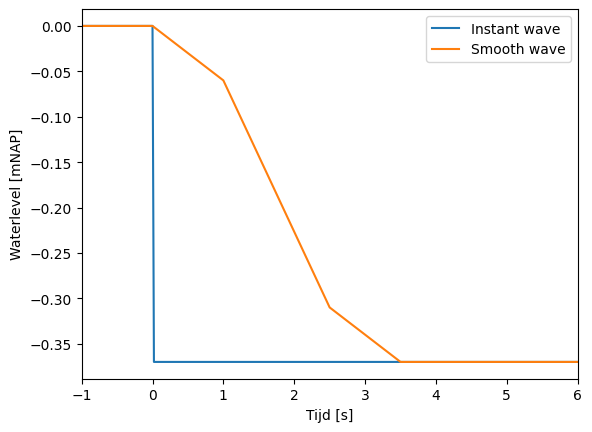
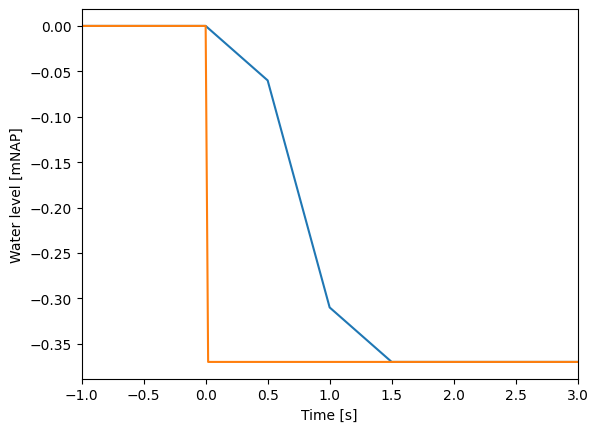
Update9_WK_Review_sensanalysis_final

diff --git a/docs/source/sensitivity-analysis.rst b/docs/source/sensitivity-analysis.rst
@@ -1,6 +1,6 @@
 Sensitivity Analysis
 ===========
-In this sensitivity analysis, parameters in the model are varied with respect to and compared with the calculation that is presented in `example <https://lockgate5-branch2.readthedocs.io/en/latest/example.html>`_ and `tutorial <https://lockgate5-branch2.readthedocs.io/en/latest/tutorial>`.
+In this sensitivity analysis, parameters in the model are varied with respect to the example calculation in `example <https://lockgate5-branch2.readthedocs.io/en/latest/example.html>`_ which includes a negative wave from the drop in water level alongside a ship that exits a lock. The input file for this simulation has been presented in `tutorial <https://lockgate5-branch2.readthedocs.io/en/latest/tutorial>`.
 
 The use of sailing velocity (M0=0)
 --------------------------------
@@ -8,7 +8,7 @@ As mentioned in `getting started <https://lockgate5-branch2.readthedocs.io/en/la
 
 .. image:: ../images/Test_1.png
 
-As can be seen in the figure, a higher propagation velocity in the lock chamber causes a larger head difference that occurs earlier than if the propagation velocity of the wave in the lock chamber equals the propagation velocity in the gate recess (translatory wave). The numerical instability occurs at roughly the same time step.
+As can be seen in the figure, for a propagation velocity of the wave in the lock chamber based on linear wave theory (equal to that in the gate recess) results in a significantly different shape. The peak negative head difference occurs earlier since the wave in the lock chamber reaches the second vertical opening at location W earlier. The peak itself is lowered since the translatory waves in the lock chamber and gate recess meet at location B. This is similar for the positive head difference peak. The numerical instability occurs at an earlier time step.
 
 Spacing between gate and gate recess wall
 --------------------------------
@@ -17,21 +17,21 @@ A space is present between the gate and gate recess wall, referred to as 'channe
 
 .. image:: ../images/Test_2.png
 
-As the figure shows, reducing the width of the channel also reduces the peak in head difference over the gate. Reason for this is, a smaller channel results in a larger wave height of the translatory wave in the gate recess. At the same time it can be seen that the influence of the numerical instability increases. This effect is reduced for a wider channel, because the waveheight of the translatory wave is less sensitive.
+As the figure shows, reducing the width of the channel increases the influence of the numerical instability and causes the instability to occur earlier in the simulation (even before the wave in the lock chamber reaches the second vertical opening at location W). This effect is reduced for a wider channel and therefore seems to be less sensitive.
 
 Width of the vertical opening 
 --------------------------------
 
-Two vertical openings are present on the sides of the gate, which can differ in spacing. In the figure below, the spacing of the vertical opening at location A (BA, the first that is reached by the incoming wave) is altered.
+Two vertical openings are present on the sides of the gate, which can differ in spacing. In the figure below, the spacing of the vertical opening at location A (BA, the first that is reached by the incoming wave) is varied.
 
 .. image:: ../images/Test_3.png
 
-From the figure it can be seen that the head difference is highly sensitive to the width of the opening at A (BA). A wider channel results in faster response of the waterlevel in the channel, reducing the head difference. For the simulation in which BA exceeds the width of the opening at B (BB=0.50 [m], green line), the maximum positive head difference is larger than for the simulation where BA=0.30 [m] (orange line). However, for a very small spacing at location A (BA), the positive and negative head difference are largerst. The numerical instability seems to occur later in the simulation when increasing BA.
+From the figure it can be seen that the head difference is highly sensitive to the width of the opening at A (BA). A wider channel results in faster response of the waterlevel in the channel creating a positive peak in head difference immediatly after the wave arrives at location A. As a result, the negative peak is reduced. For the simulation in which BA (=0.70 [m]) exceeds BB (=0.50 [m]) a positive peak forms after the negative peak, whereas this is not the case for the simulation with BA=0.30 [m]. The numerical instability does not seem to have a clear relation to BA.
 
 Horizontal opening underneath the gate
 --------------------------------
 
-In addition to vertical openings at the sides of the gate, also a horizontal opening can be present underneath the gate. This variable is given as the area of this opening in [m2] (AO). In previous runs, no horizontal opening was present. In the figure below this opening is implemented with varying area.
+In addition to vertical openings at the sides of the gate, also a horizontal opening can be present underneath the gate. This variable is given as the area of this opening (AO) in [m2]. In previous runs, no horizontal opening was present. In the figure below this opening is implemented with varying area.
 
 .. image:: ../images/Test_4.png
 
@@ -46,4 +46,4 @@ In previous examples, a wave is used that is described as an instant change in w
 
 .. image:: ../images/Test_6.png
 
-As can be seen in the second figure above, the head difference output graph shows a smoother response. The extremes are also lowered. Instability seems to occur already at t=+/- 1.6 [s] which is earlier in the simulation compared to the steep wave (t=+/- 11 [s], see the blue line in the top figure on this page).
+As can be seen in the second figure above, the head difference output graph shows a smoother response. However, the extremes show similar values indicating that an instant wave can be used for this purpose. 
